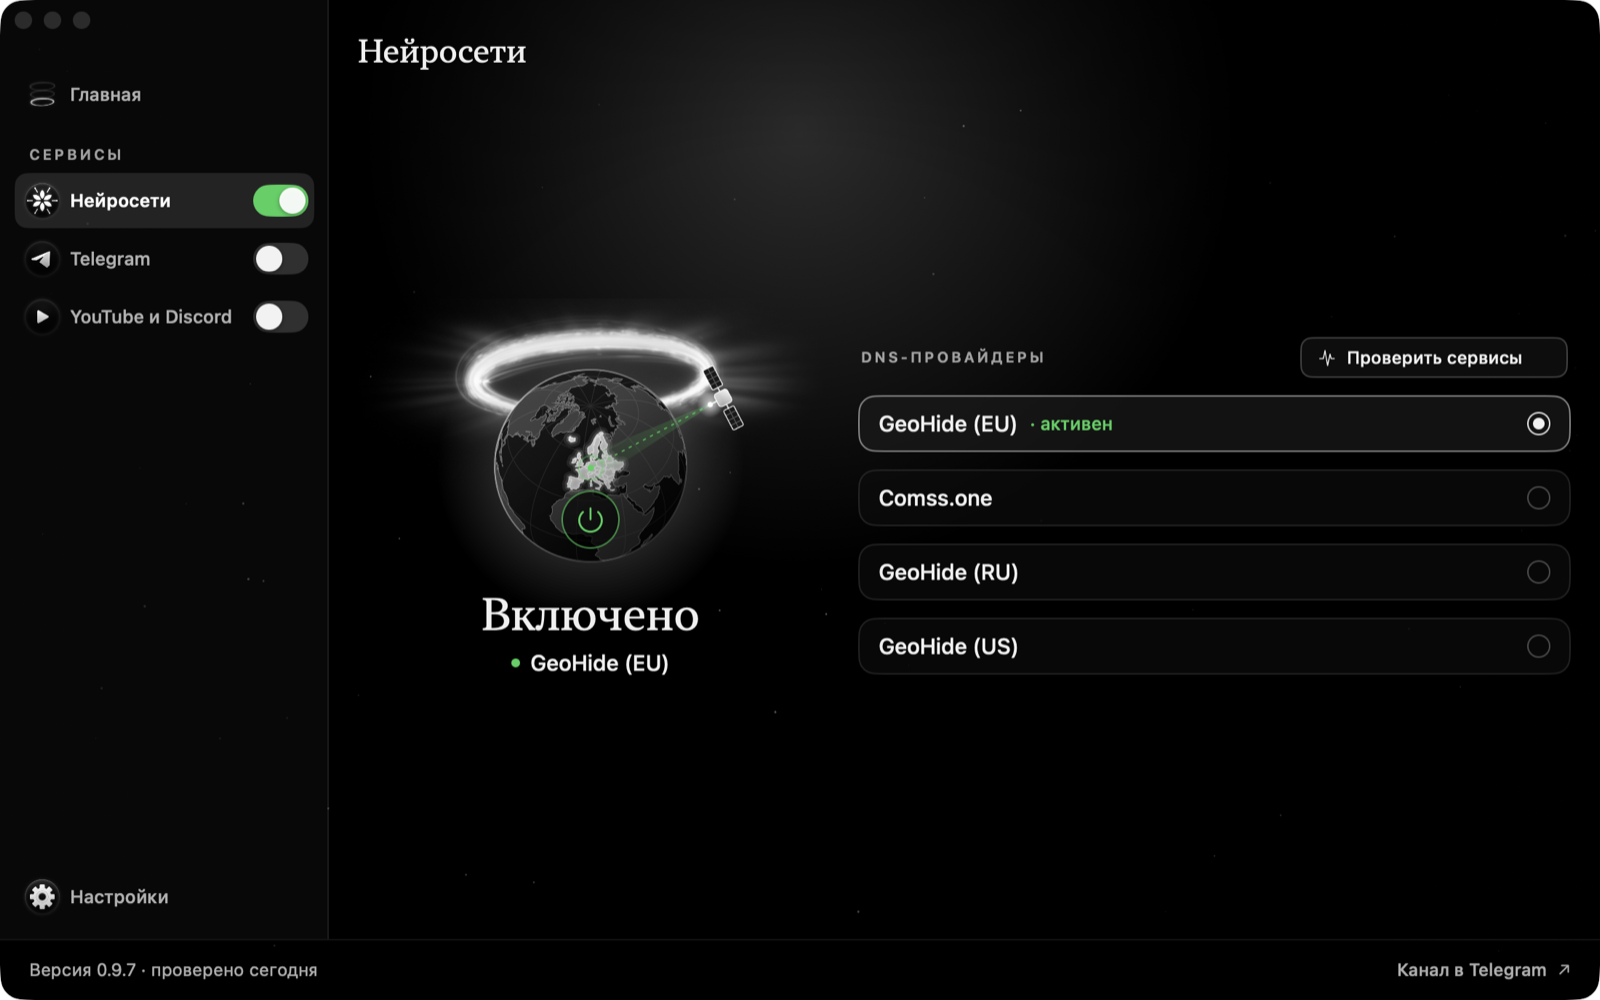
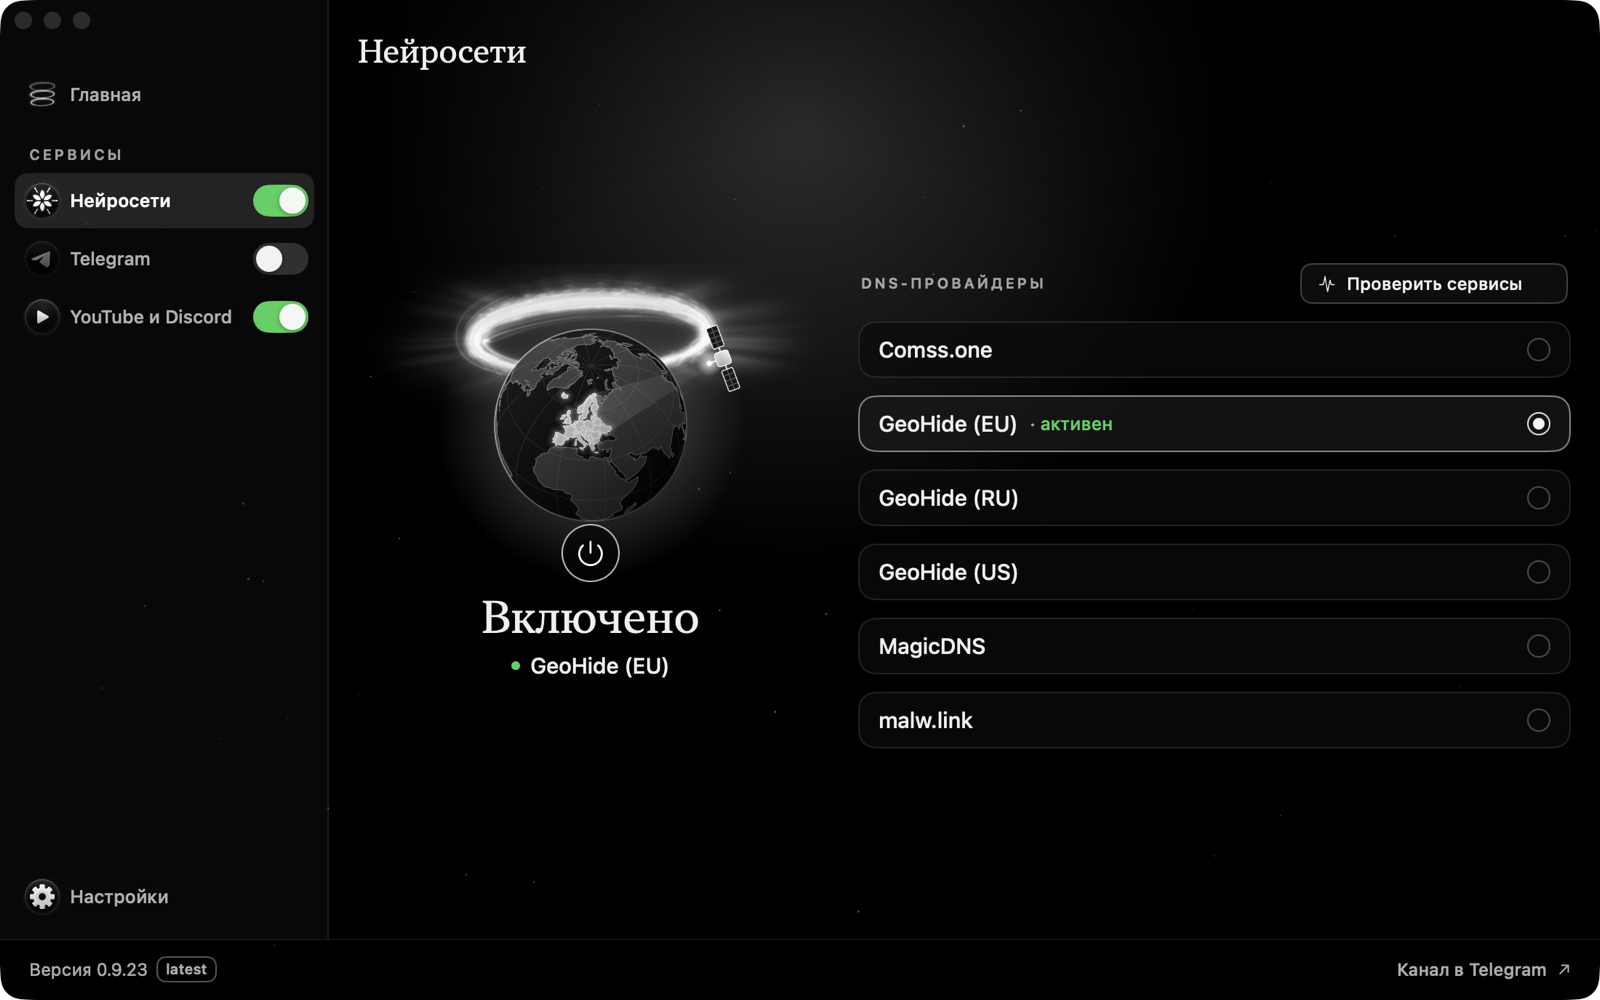
README: Mac and Windows, six DNS providers, a new screenshot, shorter notes on reports and the tunnel

diff --git a/README.md b/README.md
@@ -1,9 +1,10 @@
 <h1 align="center">Nimb</h1>
 
-<p align="center">ChatGPT, Claude, YouTube, Discord и Telegram там, где они не открываются.<br>Бесплатное приложение для Mac. Одна кнопка.</p>
+<p align="center">ChatGPT, Claude, YouTube, Discord и Telegram там, где они не открываются.<br>Бесплатно, для Mac и Windows (версия для Windows пока тестовая). Одна кнопка.</p>
 
 <p align="center">
-  <a href="https://github.com/Dizrane/Nimb/releases/latest"><b>Скачать</b></a> ·
+  <a href="https://github.com/Dizrane/Nimb/releases/latest"><b>Скачать для Mac</b></a> ·
+  <a href="https://github.com/Dizrane/Nimb/releases?q=windows">Windows (тест)</a> ·
   <a href="https://t.me/NimbProject">Новости в Telegram</a>
 </p>
 
@@ -15,13 +16,13 @@
 
 | | |
 |---|---|
-| **Нейросети** | ChatGPT, Claude, Gemini, Grok и ElevenLabs открываются, даже если закрыты по региону. Nimb включает бесплатный Smart DNS и сам подсказывает, какой из четырёх работает у вас лучше. Это не VPN: через сервис идут только запросы адресов сайтов. |
+| **Нейросети** | ChatGPT, Claude, Gemini, Grok, Perplexity и ElevenLabs открываются, даже если закрыты по региону. Nimb включает бесплатный Smart DNS: на выбор шесть провайдеров, а «Проверить сервисы» показывает, какой из них работает у вас лучше. Это не VPN: через сервис идут только запросы адресов сайтов. |
 | **Telegram** | Прокси на вашем Mac ускоряет Telegram Desktop там, где он грузится медленно или не открывается. Подключается одним подтверждением в Telegram. |
 | **YouTube и Discord** | Собственный защищённый туннель Cloudflare WARP. Вместе с ними открывается ещё около тридцати сайтов, например Instagram, WhatsApp, Facebook, X и LinkedIn (список есть в приложении). |
 
-Остальное сделано, чтобы не мешать: первая настройка по шагам, значок в строке меню, работа с закрытым окном, уведомление о новой версии, обновление и полное удаление в один клик.
+Остальное сделано, чтобы не мешать: первая настройка по шагам, значок в строке меню, работа с закрытым окном, обновление и полное удаление в один клик.
 
-## Установка
+## Установка на Mac
 
 1. Скачайте `Nimb-….dmg` на [странице релиза](https://github.com/Dizrane/Nimb/releases/latest) и перетащите Nimb в «Программы».
 2. Откройте его. При первом запуске macOS скажет, что не может проверить приложение: у бесплатного проекта нет платной подписи Apple. Откройте «Системные настройки» → «Конфиденциальность и безопасность» и нажмите **Всё равно открыть** (на macOS 14 и старше достаточно правого клика → «Открыть»). Это один раз.
@@ -34,18 +35,22 @@ curl -fsSL https://raw.githubusercontent.com/Dizrane/Nimb/main/scripts/install.s
 
 Нужна macOS 13 или новее. Работает на Apple Silicon и Intel.
 
+## Windows (тестовая версия)
+
+Тот же набор из трёх сервисов, но версия пока нестабильная: проверена в основном в виртуальной машине с Windows 11, а на Windows 10 и на настоящих компьютерах с x64 мало. Скачайте установщик на [странице релизов Windows](https://github.com/Dizrane/Nimb/releases?q=windows): `Nimb-Setup-…-amd64.exe` для обычных компьютеров (Intel и AMD), `…-arm64.exe` для компьютеров на ARM. Установщик без цифровой подписи, поэтому SmartScreen предупредит: нажмите «Подробнее» → «Выполнить в любом случае». Что-то не работает: «Настройки» → «Сообщить о проблеме».
+
 ## Это безопасно?
 
 - **Код открыт.** Всё, что делает Nimb, можно прочитать в этом репозитории, а приложение собрать самому (`./scripts/build_app.sh`).
-- **Ни аккаунтов, ни рекламы, ни слежки.** В сеть уходят только проверка новых версий на GitHub и кнопка «Сообщить о проблеме», и только когда вы сами её нажали (если вы не включили «Помогать тестированию»: тогда Nimb сам отправляет раз в сутки одну сводку, в которой и серьёзные сбои дня; отчёт, который не ушёл из-за сети, ждёт в файле на вашем Mac не дольше суток; по умолчанию выключено, включается и выключается в «Настройках»; сборки, которые изменены или собраны не из официального выпуска, и версии, которые не последние, никаких отчётов не отправляют): перед отправкой видно, что именно уйдёт, а паролей, ключей и ваших личных данных (адрес, адреса вашей сети, имя компьютера) в отчёте нет. Адреса серверов провайдеров и сервера туннеля (они принадлежат Cloudflare) в нём есть: они помогают найти ошибку.
+- **Ни аккаунтов, ни рекламы, ни слежки.** В сеть уходят только проверка новых версий на GitHub и отчёт о проблеме, который вы отправляете сами: перед отправкой видно, что именно уйдёт, а паролей, ключей и личных данных (ваш адрес, адреса вашей сети, имя компьютера) в нём нет. Если включить «Помогать тестированию» (по умолчанию выключено), раз в сутки уходит одна сводка о серьёзных сбоях. Версии, которые не последние, и сборки, которые изменены или не из официального выпуска, отчётов не отправляют.
 - **Пароль вводите в окне macOS.** Он нужен, только чтобы поменять DNS и запустить туннель. Nimb его не видит и не хранит. Окно может называться «osascript»: так macOS подписывает запрос, который делает Nimb. Можно разрешить эти два действия без пароля и забрать разрешение в любой момент в «Настройках».
 - **Файл можно проверить.** У каждого релиза указана контрольная сумма SHA-256 (`shasum -a 256 Nimb-….dmg`). Обновления внутри приложения проверяют её, подпись автора (ключ Ed25519, закрытая часть хранится у автора, открытая вшита в приложение) и подпись самого приложения сами; без подписи автора обновление не ставится.
 - **Удаляется без следов.** «Настройки» → «Удалить Nimb» возвращает DNS как был, удаляет туннель и его аккаунт Cloudflare, правила и все файлы.
 
 ## Что нужно знать
 
-- Пока включён туннель, весь интернет-трафик Mac идёт через Cloudflare WARP, как в официальном приложении 1.1.1.1. Когда он не нужен, выключите переключатель.
-- При включении туннеля Nimb проверяет, открываются ли YouTube и Discord. Если нет, он пробует другие серверы WARP (у разных серверов выход из разных городов, и в некоторых YouTube блокируется) и запоминает первый, где открываются оба. Работающий туннель на другой сервер не переключается. Если YouTube перестал открываться, выключите туннель и включите снова. Если туннель включён, но его сервер больше 10 минут не отвечает и интернета через него нет (весь трафик Mac идёт в туннель), Nimb сам перезапускает туннель, пробует другие серверы, а если ни один не отвечает, выключает туннель, чтобы интернет вернулся, и говорит об этом. Туннель нужен для доступа, а не для анонимности: если он упадёт, трафик пойдёт напрямую (защиты «kill switch» нет намеренно). Когда Mac меняет сеть (или свой адрес в ней), помощник сразу говорит туннелю забыть старый адрес: иначе после смены сети рукопожатие могло не проходить вовсе.
+- Пока включён туннель, весь интернет-трафик компьютера идёт через Cloudflare WARP, как в официальном приложении 1.1.1.1. Когда он не нужен, выключите переключатель.
+- Nimb сам подбирает сервер WARP, где открываются и YouTube, и Discord. Если YouTube перестал открываться, выключите туннель и включите снова. Если туннель завис и интернета нет, Nimb перезапускает его, а если не помогло, выключает, чтобы интернет вернулся, и говорит об этом. Туннель нужен для доступа, а не для анонимности: если он упадёт, трафик пойдёт напрямую (защиты «kill switch» нет намеренно).
 - Бесплатные DNS-сервисы иногда перестают работать у кого-то. Тогда нажмите «Проверить сервисы» и выберите другой.
 - Туннель не поможет там, где сервис сам закрыт для российских IP-адресов.
 - Если на Mac включён VPN, он может перекрывать настройки Nimb.
